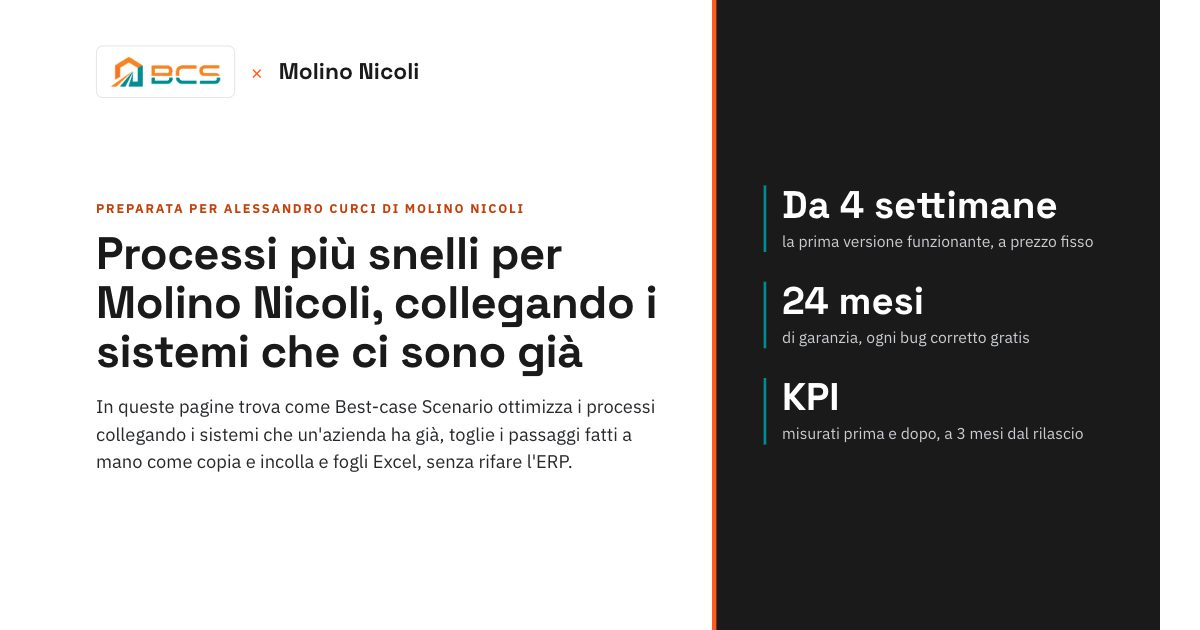
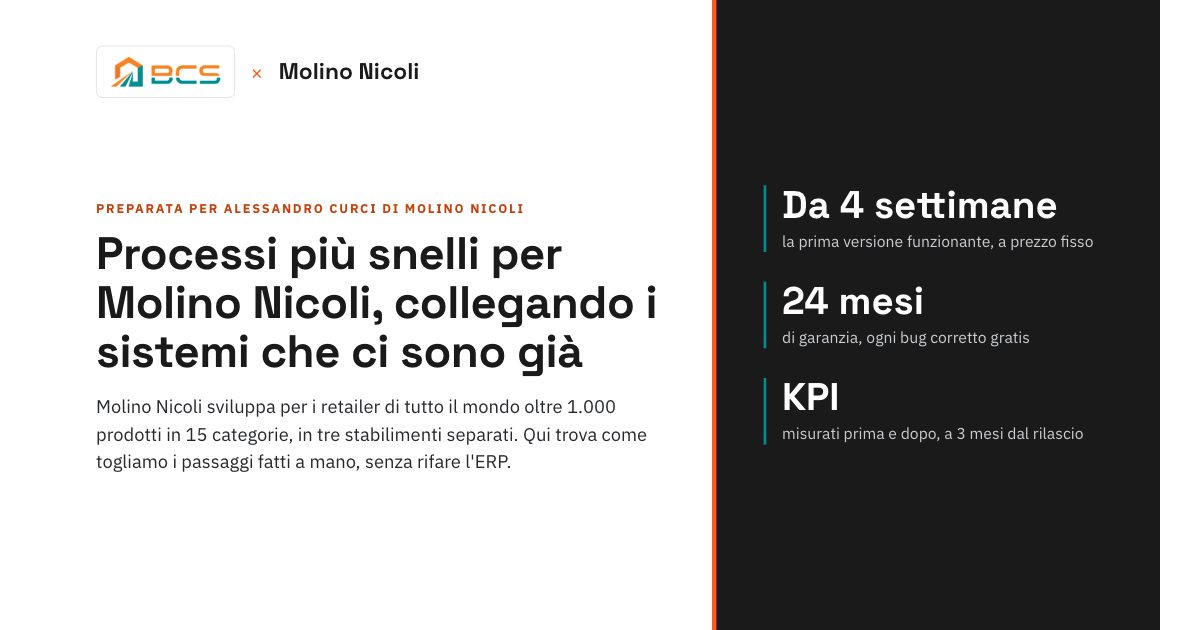
bestcase: verified company facts on the 3 example pages

Changed region(s): [[0.0617, 0.6333, 0.555, 0.754]]

diff --git a/bestcase/chiapparoli-logistica/index.html b/bestcase/chiapparoli-logistica/index.html
@@ -125,7 +125,7 @@ html:not(.phone) h1{font-size:48px}</style>
     <div class="m">
       <div class="eyebrow">Preparata per Danilo Zuccalli di Chiapparoli Logistica</div>
       <h1>Processi più snelli per Chiapparoli Logistica, collegando i sistemi che ci sono già</h1>
-      <p class="sub">In queste pagine trova come Best-case Scenario ottimizza i processi collegando i sistemi che un'azienda ha già, toglie i passaggi fatti a mano come copia e incolla e fogli Excel, senza rifare l'ERP.</p>
+      <p class="sub">Chiapparoli Logistica, nata nel 1979, è specializzata nella logistica del farmaco e distribuisce anche veterinari, dispositivi medici, nutraceutici e cosmetici. Qui trova come togliamo i passaggi fatti a mano, senza rifare l'ERP.</p>
     </div>
   </div>
   <div class="r">

diff --git a/bestcase/molino-nicoli/index.html b/bestcase/molino-nicoli/index.html
@@ -125,7 +125,7 @@ html:not(.phone) .mk{flex:1;min-height:0;grid-auto-rows:1fr;margin-top:30px}html
     <div class="m">
       <div class="eyebrow">Preparata per Alessandro Curci di Molino Nicoli</div>
       <h1>Processi più snelli per Molino Nicoli, collegando i sistemi che ci sono già</h1>
-      <p class="sub">In queste pagine trova come Best-case Scenario ottimizza i processi collegando i sistemi che un'azienda ha già, toglie i passaggi fatti a mano come copia e incolla e fogli Excel, senza rifare l'ERP.</p>
+      <p class="sub">Molino Nicoli sviluppa per i retailer di tutto il mondo oltre 1.000 prodotti in 15 categorie, in tre stabilimenti separati. Qui trova come togliamo i passaggi fatti a mano, senza rifare l'ERP.</p>
     </div>
   </div>
   <div class="r">

diff --git a/bestcase/gruppo-comini/index.html b/bestcase/gruppo-comini/index.html
@@ -125,7 +125,7 @@ html:not(.phone) .mk{flex:1;min-height:0;grid-auto-rows:1fr;margin-top:30px}html
     <div class="m">
       <div class="eyebrow">Preparata per Fabio Cardinetti di Gruppo Comini</div>
       <h1>Processi più snelli per Gruppo Comini, collegando i sistemi che ci sono già</h1>
-      <p class="sub">In queste pagine trova come Best-case Scenario ottimizza i processi collegando i sistemi che un'azienda ha già, toglie i passaggi fatti a mano come copia e incolla e fogli Excel, senza rifare l'ERP.</p>
+      <p class="sub">Il Gruppo Comini conta 9 società, 72 punti vendita e 26 showroom arredo bagno in 11 regioni del centro-nord Italia. Qui trova come togliamo i passaggi fatti a mano, senza rifare l'ERP.</p>
     </div>
   </div>
   <div class="r">

diff --git a/bestcase/_src/build.py b/bestcase/_src/build.py
@@ -15,7 +15,7 @@ SHARED = ('bcs-logo.png', 'bcs-favicon.ico')
 CAL_URL = 'https://api.leadconnectorhq.com/widget/booking/JAGIQb4Jsxos3YiNkp5O'   # 'LinkedIn - Best Case Scenario' (Meet). Only this one, never hCpFM8166S0xfBTwdXqi.
 TALK_CAL = '    <div class="who"><b>Una breve call Google Meet con Elia e Daniele</b><span>Scelga un orario nel calendario, oppure risponda al messaggio su LinkedIn.</span></div>\n'
 CTA_LI = open(os.path.join(HERE, 'cta_linkedin.html'), encoding='utf-8').read()
-TAIL = 'Qui trova come colleghiamo i sistemi che ci sono già e togliamo i passaggi fatti a mano.'
+TAIL = "Qui trova come togliamo i passaggi fatti a mano, senza rifare l'ERP."
 GEN_SUB = "In queste pagine trova come Best-case Scenario ottimizza i processi collegando i sistemi che un'azienda ha già, toglie i passaggi fatti a mano come copia e incolla e fogli Excel, senza rifare l'ERP."
 GEN_IDEA = "La domanda giusta non è quale sistema cambiare, ma dove i sistemi costringono ancora a usare Excel."
 E = lambda s: html.escape(s, quote=False)
